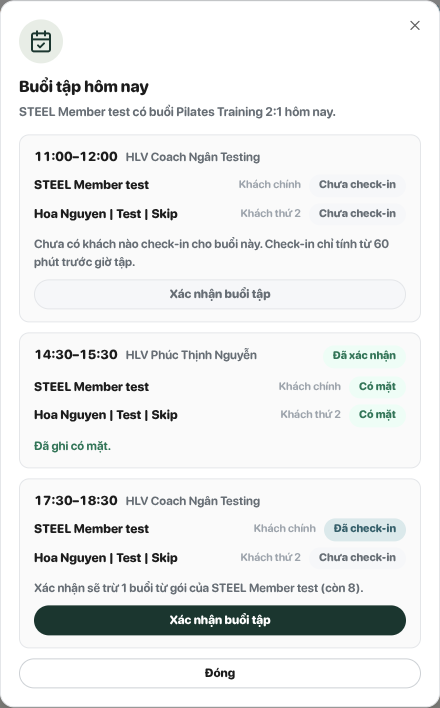
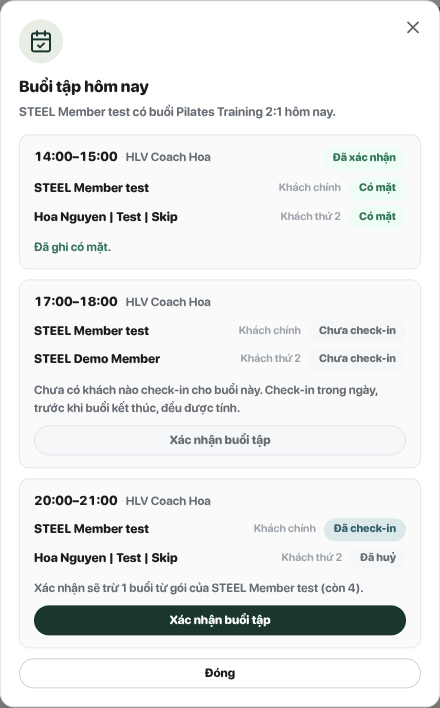
docs(pt21): refresh screenshots and booking guide links

diff --git a/huong-dan-pilates-2-1.html b/huong-dan-pilates-2-1.html
@@ -212,7 +212,7 @@
         <div class="n">1</div>
         <div class="who">CS · màn Check-in</div>
         <div>Check-in khách như bình thường, cho cả khách chính và khách thứ 2. Nếu khách có buổi 2:1 hôm nay ở chi nhánh này, hộp <b>Buổi tập hôm nay</b> tự mở, ghi giờ, HLV và trạng thái của 2 khách.</div>
-        <figure class="shot"><img src="images/pt21-04-buoi-tap-hom-nay.png" alt="Hộp Buổi tập hôm nay sau khi check-in khách chính. Buổi 11:00 chưa ai check-in nên nút bị khoá; buổi 14:30 đã xác nhận; buổi 17:30 khách chính đã check-in, nút Xác nhận buổi tập bật." loading="lazy"><figcaption>Hộp Buổi tập hôm nay sau khi check-in khách chính. Buổi 11:00 chưa ai check-in nên nút bị khoá; buổi 14:30 đã xác nhận; buổi 17:30 khách chính đã check-in, nút Xác nhận buổi tập bật.</figcaption></figure>
+        <figure class="shot"><img src="images/pt21-04-buoi-tap-hom-nay.png" alt="Hộp Buổi tập hôm nay sau khi check-in khách chính. Buổi 14:00 đã xác nhận; buổi 17:00 đã kết thúc mà chưa ai check-in nên nút bị khoá; buổi 20:00 khách chính đã check-in (khách thứ 2 đã huỷ), nút Xác nhận buổi tập bật." loading="lazy"><figcaption>Hộp Buổi tập hôm nay sau khi check-in khách chính. Buổi 14:00 đã xác nhận; buổi 17:00 đã kết thúc mà chưa ai check-in nên nút bị khoá; buổi 20:00 khách chính đã check-in (khách thứ 2 đã huỷ), nút Xác nhận buổi tập bật.</figcaption></figure>
       </div>
       <div class="step">
         <div class="n">2</div>

diff --git a/huong-dan-lich-booking.html b/huong-dan-lich-booking.html
@@ -830,9 +830,11 @@
                     </table>
                 </div>
                 <p class="note">
-                    Form tạo buổi trên app chỉ có các buổi 1:1: PT 1:1, Sport
-                    Massage, Stretching, Recovery. Pilates 2:1 và lớp nhóm vẫn
-                    xếp trên Directus.
+                    Form tạo buổi trên app có PT 1:1, Pilates Training 2:1,
+                    Sport Massage, Stretching, Recovery. Riêng buổi 2:1 (khách
+                    thứ 2, check-in, xác nhận, huỷ từng khách) xem
+                    <a href="huong-dan-pilates-2-1.html">hướng dẫn Pilates
+                    Training 2:1</a>. Lớp nhóm vẫn xếp trên Directus.
                 </p>
             </section>
 
@@ -1948,8 +1950,14 @@
                         <b>Tất cả nhân sự</b>.
                     </li>
                     <li>
-                        <b>Cần đặt Pilates 2:1 hoặc lớp nhóm?</b> App chưa làm
-                        được, vẫn đặt trên Directus.
+                        <b>Cần đặt Pilates 2:1?</b> Đặt ngay trên app, chọn loại
+                        "Pilates Training 2:1". Xem
+                        <a href="huong-dan-pilates-2-1.html">hướng dẫn Pilates
+                        Training 2:1</a>.
+                    </li>
+                    <li>
+                        <b>Cần đặt lớp nhóm?</b> App chưa làm được, vẫn đặt
+                        trên Directus.
                     </li>
                     <li>
                         <b>Buổi đặt trên Directus có hiện ở đây không?</b> Có,
